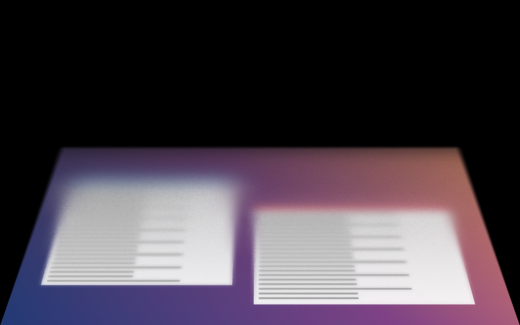
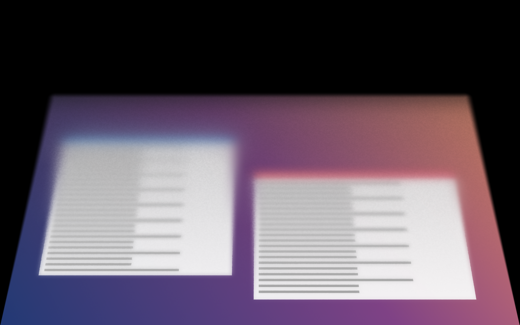
Ease the fold in, and make the settings panel wide and short
The fold engaged almost linearly from the engage angle, so it read as switching
on rather than gathering. The sensitivity curve is now weighted lazy by default
(gamma 2.35 rather than 1.06): at 80° nothing is happening, at 70° barely
anything, and most of the travel lands in the last third. The global ease-in ran
over 4% of the fold, which is a step in practice; it now runs over 14%.

The settings panel was taller than a laptop screen and ran off the bottom. It is
now two columns at 780x600 — 628 with the title bar, against 924 of visible
frame. The ScrollView it sits in has no intrinsic size, so it needs an explicit
frame or the hosting controller collapses it; that collapse was why the window
came up at 260x354.

Also corrects a claim in the README: ad-hoc signing does not preserve the Screen
Recording grant across rebuilds. The signature is valid but its code hash
changes every build, so macOS treats each one as a new app and asks again.

Claude-Session: https://claude.ai/code/session_011cUEMYZvcXUPB9rDKdmUEi

diff --git a/Sources/FrostFold/SettingsWindow.swift b/Sources/FrostFold/SettingsWindow.swift
@@ -7,71 +7,96 @@ struct SettingsView: View {
     var openPreview: () -> Void = {}
 
     var body: some View {
-        Form {
-            Section("Effect") {
-                Picker("Intensity", selection: $settings.intensity) {
-                    ForEach(Intensity.allCases) { Text($0.label).tag($0) }
-                }
-                .pickerStyle(.segmented)
-                .labelsHidden()
-            }
-
-            Section("Material") {
-                percent("Perspective", $settings.perspective,
-                        note: "How hard the gap opens toward the top.")
-                percent("Edge softness", $settings.edgeSoftness,
-                        note: "Fall-off at the pane's edges.")
-                percent("Dimming", $settings.dimming,
-                        note: "How far the glass darkens as the gap opens.")
-                measured("Corner radius", $settings.cornerRadius, 0...60, "%.0f pt",
-                         note: "Rounding on the free corners, to match your display.")
-            }
-
-            Section("Feel") {
-                percent("Responsiveness", $settings.responsiveness,
-                        note: "How tightly the fold tracks your hand.")
-                percent("Hinge sensitivity", $settings.hingeSensitivity,
-                        note: "How quickly the fold rises once the lid moves.")
-                measured("Minimum movement", $settings.movementThreshold, 0.1...5, "%.1f°",
-                         note: "How far the lid must move from rest before the fold starts.")
-                measured("Engages at", $settings.restAngle, 60...170, "%.0f°",
-                         note: "Above this angle the pane lies flat and nothing renders.")
-                measured("Maximum fold", $settings.maxFold, 10...85, "%.0f°",
-                         note: "How far the pane lifts off the display when fully folded.")
-            }
-
-            Section("Performance") {
-                Picker("Stationary frame rate", selection: $settings.stationaryFPS) {
-                    ForEach(StationaryFPS.allCases) { Text($0.label).tag($0) }
-                }
-                .pickerStyle(.segmented)
-            }
-
-            Section {
-                VStack(alignment: .leading, spacing: 10) {
-                    HStack(alignment: .firstTextBaseline) {
-                        statusLine
-                        Spacer()
-                        Button("Reset") { settings.resetToDefaults() }
+        ScrollView(.vertical) {
+            VStack(alignment: .leading, spacing: 16) {
+                // Two columns: the window is far wider than it is tall, so it
+                // fits on a laptop display without running off the bottom.
+                HStack(alignment: .top, spacing: 18) {
+                    VStack(alignment: .leading, spacing: 16) {
+                        group("Effect") {
+                            Picker("", selection: $settings.intensity) {
+                                ForEach(Intensity.allCases) { Text($0.label).tag($0) }
+                            }
+                            .pickerStyle(.segmented)
+                            .labelsHidden()
+                        }
+                        group("Material") {
+                            percent("Perspective", $settings.perspective,
+                                    "How hard the pane converges as it folds away.")
+                            percent("Edge softness", $settings.edgeSoftness,
+                                    "Fall-off at the free edges. The hinge never fades.")
+                            percent("Dimming", $settings.dimming,
+                                    "How far the glass darkens as the gap opens.")
+                            measured("Corner radius", $settings.cornerRadius, 0...60, "%.0f pt",
+                                     "Rounding on the free corners, to match your display.")
+                            measured("Maximum fold", $settings.maxFold, 10...85, "%.0f°",
+                                     "How far the pane lifts once the fold is fully in.")
+                        }
                     }
-                    Divider()
-                    HStack {
-                        Toggle("Enabled", isOn: $settings.enabled)
-                            .toggleStyle(.switch)
-                        Spacer()
-                        Button("Preview…") { openPreview() }
-                        // FrostFold has no menu bar item, so this is the way out.
-                        Button("Quit FrostFold") { NSApp.terminate(nil) }
+                    VStack(alignment: .leading, spacing: 16) {
+                        group("Feel") {
+                            measured("Engages at", $settings.restAngle, 45...170, "%.0f°",
+                                     "The lid angle where the fold starts.")
+                            percent("Hinge sensitivity", $settings.hingeSensitivity,
+                                    "Low holds off until the lid is well down; high rises at once.")
+                            percent("Responsiveness", $settings.responsiveness,
+                                    "How tightly the fold tracks your hand.")
+                            measured("Minimum movement", $settings.movementThreshold, 0.1...5, "%.1f°",
+                                     "How far the lid must move from rest before anything happens.")
+                        }
+                        group("Performance") {
+                            Picker("", selection: $settings.stationaryFPS) {
+                                ForEach(StationaryFPS.allCases) { Text($0.label).tag($0) }
+                            }
+                            .pickerStyle(.segmented)
+                            .labelsHidden()
+                            Text("Frame rate while the lid is still. Capture stops when settled.")
+                                .font(.caption)
+                                .foregroundStyle(.secondary)
+                        }
                     }
-                    Text("FrostFold runs in the background. Launch it again to reopen these settings.")
-                        .font(.caption)
-                        .foregroundStyle(.secondary)
                 }
+
+                Divider()
+
+                HStack(spacing: 12) {
+                    Toggle("Enabled", isOn: $settings.enabled)
+                        .toggleStyle(.switch)
+                    statusLine
+                    Spacer()
+                    Button("Reset") { settings.resetToDefaults() }
+                    Button("Preview…") { openPreview() }
+                    // There is no menu bar item, so this is the way out.
+                    Button("Quit") { NSApp.terminate(nil) }
+                }
+
+                Text("FrostFold runs in the background. Launch it again to reopen these settings.")
+                    .font(.caption)
+                    .foregroundStyle(.secondary)
             }
+            .padding(20)
+            .frame(width: 780, alignment: .leading)
         }
-        .formStyle(.grouped)
-        .frame(width: 460)
-        .fixedSize(horizontal: false, vertical: true)
+        // A ScrollView has no intrinsic size, so without an explicit frame the
+        // hosting controller collapses it to nothing. Fixed height keeps the
+        // panel wide and short, and lets it scroll if it ever outgrows this.
+        .frame(width: 780, height: 600)
+    }
+
+    // MARK: - Pieces
+
+    private func group<Content: View>(_ title: String,
+                                      @ViewBuilder _ content: () -> Content) -> some View {
+        VStack(alignment: .leading, spacing: 10) {
+            Text(title.uppercased())
+                .font(.caption2.weight(.semibold))
+                .foregroundStyle(.secondary)
+                .tracking(0.6)
+            content()
+        }
+        .frame(maxWidth: .infinity, alignment: .leading)
+        .padding(14)
+        .background(.quaternary.opacity(0.35), in: RoundedRectangle(cornerRadius: 10))
     }
 
     @ViewBuilder
@@ -80,23 +105,22 @@ struct SettingsView: View {
             Label(message, systemImage: "exclamationmark.triangle.fill")
                 .font(.caption)
                 .foregroundStyle(.orange)
-                .fixedSize(horizontal: false, vertical: true)
+                .lineLimit(2)
         } else if controller.sensorAvailable {
-            Text(String(format: "Lid %.1f° · engages at %.0f°",
-                        controller.angle, settings.restAngle))
+            Text(String(format: "Lid %.1f°", controller.angle))
                 .font(.caption)
                 .monospacedDigit()
                 .foregroundStyle(.secondary)
         }
     }
 
-    private func percent(_ title: String, _ value: Binding<Double>, note: String) -> some View {
+    private func percent(_ title: String, _ value: Binding<Double>, _ note: String) -> some View {
         slider(title, value, 0...1, { String(format: "%.0f%%", $0 * 100) }, note)
     }
 
     private func measured(_ title: String, _ value: Binding<Double>,
                           _ range: ClosedRange<Double>, _ format: String,
-                          note: String) -> some View {
+                          _ note: String) -> some View {
         slider(title, value, range, { String(format: format, $0) }, note)
     }
 
@@ -104,20 +128,21 @@ struct SettingsView: View {
                         _ range: ClosedRange<Double>,
                         _ readout: @escaping (Double) -> String,
                         _ note: String) -> some View {
-        VStack(alignment: .leading, spacing: 2) {
-            HStack {
-                Text(title)
+        VStack(alignment: .leading, spacing: 1) {
+            HStack(spacing: 8) {
+                Text(title).font(.callout)
                 Spacer()
                 Text(readout(value.wrappedValue))
+                    .font(.callout)
                     .monospacedDigit()
                     .foregroundStyle(.secondary)
             }
             Slider(value: value, in: range)
             Text(note)
                 .font(.caption)
-                .foregroundStyle(.secondary)
+                .foregroundStyle(.tertiary)
+                .lineLimit(1)
         }
-        .padding(.vertical, 2)
     }
 }
 
@@ -125,18 +150,29 @@ final class SettingsWindowController: NSWindowController {
     init(controller: EffectController, openPreview: @escaping () -> Void) {
         let root = SettingsView(settings: .shared, controller: controller, openPreview: openPreview)
         let hosting = NSHostingController(rootView: root)
+        hosting.preferredContentSize = NSSize(width: 780, height: 560)
+
         let window = NSWindow(contentViewController: hosting)
         window.title = "FrostFold Settings"
         window.styleMask = [.titled, .closable, .miniaturizable]
         window.isReleasedWhenClosed = false
         window.sharingType = .none
-        window.center()
         super.init(window: window)
     }
 
     required init?(coder: NSCoder) { fatalError("not supported") }
 
     func present() {
+        // Never let the panel run off the bottom of a laptop display: clamp to
+        // what the screen actually offers, then centre what's left.
+        if let window, let screen = window.screen ?? NSScreen.main {
+            let room = screen.visibleFrame.insetBy(dx: 20, dy: 20)
+            var frame = window.frame
+            frame.size.width = min(frame.width, room.width)
+            frame.size.height = min(frame.height, room.height)
+            window.setFrame(frame, display: false)
+            window.center()
+        }
         showWindow(nil)
         window?.makeKeyAndOrderFront(nil)
         NSApp.activate(ignoringOtherApps: true)

diff --git a/Sources/FrostFold/Settings.swift b/Sources/FrostFold/Settings.swift
@@ -60,7 +60,7 @@ final class Settings: ObservableObject {
         dimming            = dbl("dimming", 0.45)
         cornerRadius       = dbl("cornerRadiusPt", 33)
         responsiveness     = dbl("responsiveness", 0.3)
-        hingeSensitivity   = dbl("hingeSensitivity", 0.7)
+        hingeSensitivity   = dbl("hingeSensitivity", 0.35)
         movementThreshold  = dbl("movementThreshold", 1.0)
         stationaryFPS      = StationaryFPS(rawValue: store.object(forKey: "stationaryFPS") as? Int ?? 30) ?? .f30
         restAngle          = dbl("engageAngle", 85)
@@ -81,7 +81,7 @@ final class Settings: ObservableObject {
         intensity = .medium;        perspective = 0.5
         edgeSoftness = 0.4;         dimming = 0.45
         cornerRadius = 33
-        responsiveness = 0.3;       hingeSensitivity = 0.7
+        responsiveness = 0.3;       hingeSensitivity = 0.35
         movementThreshold = 1.0;    stationaryFPS = .f30
         restAngle = 85;             maxFold = 68
     }
@@ -94,9 +94,11 @@ final class Settings: ObservableObject {
         // the whole 0...engage range: a lid never reaches 0°, and treating it
         // as though it might leaves the fold unfinished as the lid shuts.
         let t = max(0, min(1, (restAngle - angle) / (restAngle - shutAngle)))
-        // Sensitivity biases the curve: low means most of the travel happens
-        // near shut, high means the fold rises as soon as the lid moves.
-        let gamma = 2.6 - 2.2 * hingeSensitivity   // 2.6 (lazy) ... 0.4 (eager)
+        // Sensitivity biases the curve: low means almost nothing happens until
+        // the lid is well down, high means the fold rises as soon as it moves.
+        // Weighted lazy, because engaging linearly from the engage angle reads
+        // as the effect snapping on rather than gathering.
+        let gamma = 3.4 - 3.0 * hingeSensitivity   // 3.4 (lazy) ... 0.4 (eager)
         return pow(t, gamma)
     }
 }

diff --git a/Sources/FrostFold/EffectController.swift b/Sources/FrostFold/EffectController.swift
@@ -217,9 +217,9 @@ final class EffectController: ObservableObject {
         u.grainAmount = 1.0
         u.aspect = view.aspect
         u.grainScale = SIMD2(Float(max(1, size.width / 7)), Float(max(1, size.height / 7)))
-        // A short ramp keeps the blackout from popping in at the moment the
-        // fold engages, while the pane still covers the whole display.
-        u.opacity = Float(smoothstep(0, 0.04, fold01))
+        // Ease the whole thing in rather than switching it on. At 0.04 the
+        // blackout arrived effectively as a step.
+        u.opacity = Float(smoothstep(0, 0.14, fold01))
         u.dim = Float(s.dimming)
         return u
     }

diff --git a/README.md b/README.md
@@ -73,8 +73,8 @@ so the glass darkens along with the gap.
 </tr>
 <tr>
 <td align="center"><strong>100°</strong><br><sub>above the engage angle — nothing<br>renders, capture is off</sub></td>
-<td align="center"><strong>62°</strong><br><sub>converging, the gap opening<br>at the free edge</sub></td>
-<td align="center"><strong>20°</strong><br><sub>collapsed toward the hinge,<br>blacked out above</sub></td>
+<td align="center"><strong>50°</strong><br><sub>gathering — converging, the gap<br>just opening at the free edge</sub></td>
+<td align="center"><strong>22°</strong><br><sub>collapsed toward the hinge,<br>blacked out above</sub></td>
 </tr>
 </table>
 
@@ -106,9 +106,10 @@ the icon and ad-hoc signs it. Drop `--universal` while you're iterating to build
 only the native slice — it's roughly ten times quicker.
 
 > [!NOTE]
-> The ad-hoc signature is not cosmetic. macOS remembers the Screen Recording
-> grant against the bundle's identity, so an unsigned bundle loses the
-> permission on every rebuild.
+> Ad-hoc signing gives the bundle a valid signature but not a *stable* one: the
+> code hash changes with every build, so macOS treats each rebuild as a new app
+> and asks for Screen Recording again. That's normal while you're working on it.
+> A real Developer ID signature is what makes the grant stick across builds.
 
 > [!IMPORTANT]
 > The app isn't notarised by Apple, so the first launch of a copy you didn't
@@ -139,7 +140,8 @@ FrostFold needs **Screen Recording**, and it is not optional — the glass is
 built out of your live display, so there is nothing to render without it.
 
 macOS asks once, on first launch, with its own prompt. Allow it and FrostFold
-carries straight on.
+carries straight on. It will ask again after a rebuild, for the reason in the
+note above.
 
 If you dismissed that prompt, macOS won't ask a second time — FrostFold will say
 so and offer to open Privacy & Security → Screen Recording, where you can switch
@@ -168,7 +170,7 @@ closing the lid a hundred times.
 | | |
 |---|---|
 | **Responsiveness** | Low trails the lid; high tracks it immediately. |
-| **Hinge sensitivity** | Where in the lid's travel the fold does most of its work. |
+| **Hinge sensitivity** | Where in the lid's travel the fold does its work. Low holds off until the lid is well down and then gathers; high rises the moment the lid moves. |
 | **Minimum movement** | Deadband, in degrees. Below this the pane holds still, so a lid parked part-way open doesn't shimmer on sensor noise. |
 | **Engages at** | The lid angle at which the fold starts, 85° by default — a little past perpendicular, so normal use never triggers it. Above this angle nothing renders and capture is off. |
 | **Maximum fold** | How far the pane lifts off the display once the fold is fully in — which is what sets the gap, and so the frost. |
